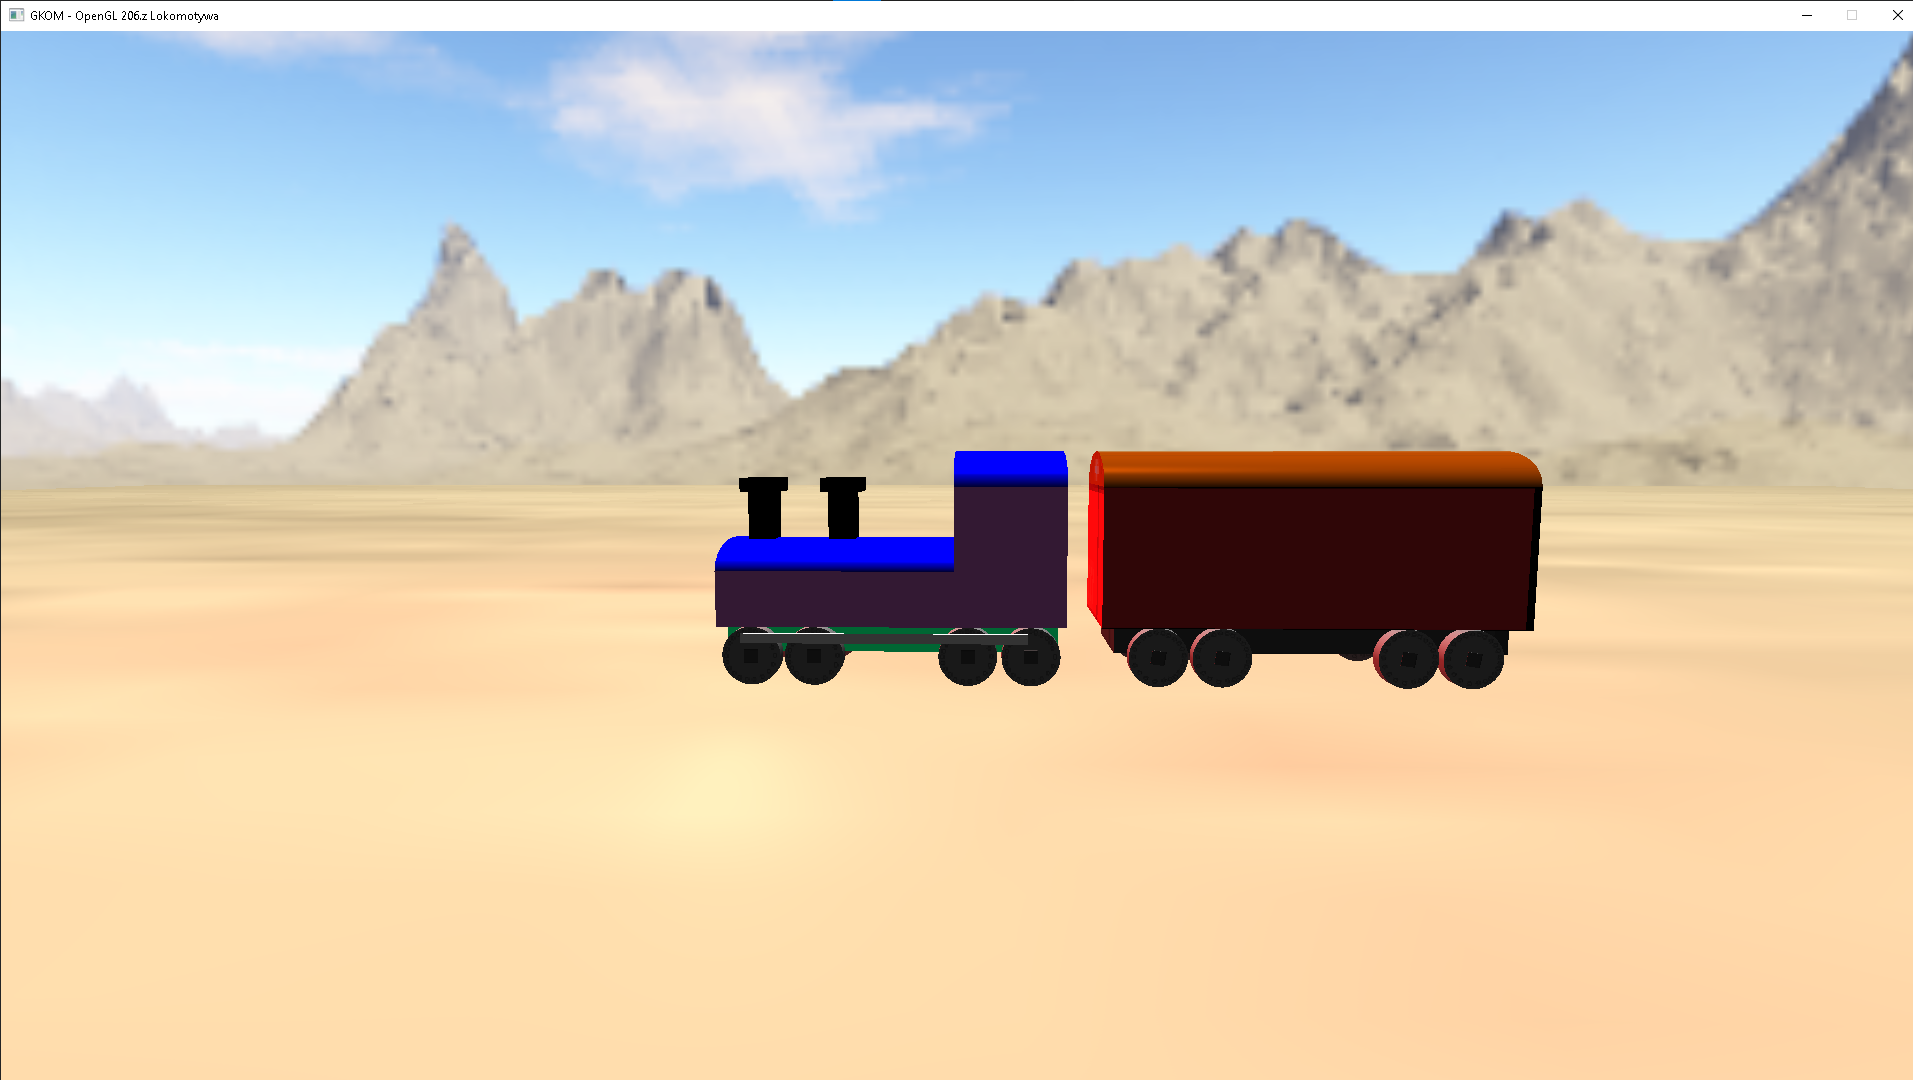
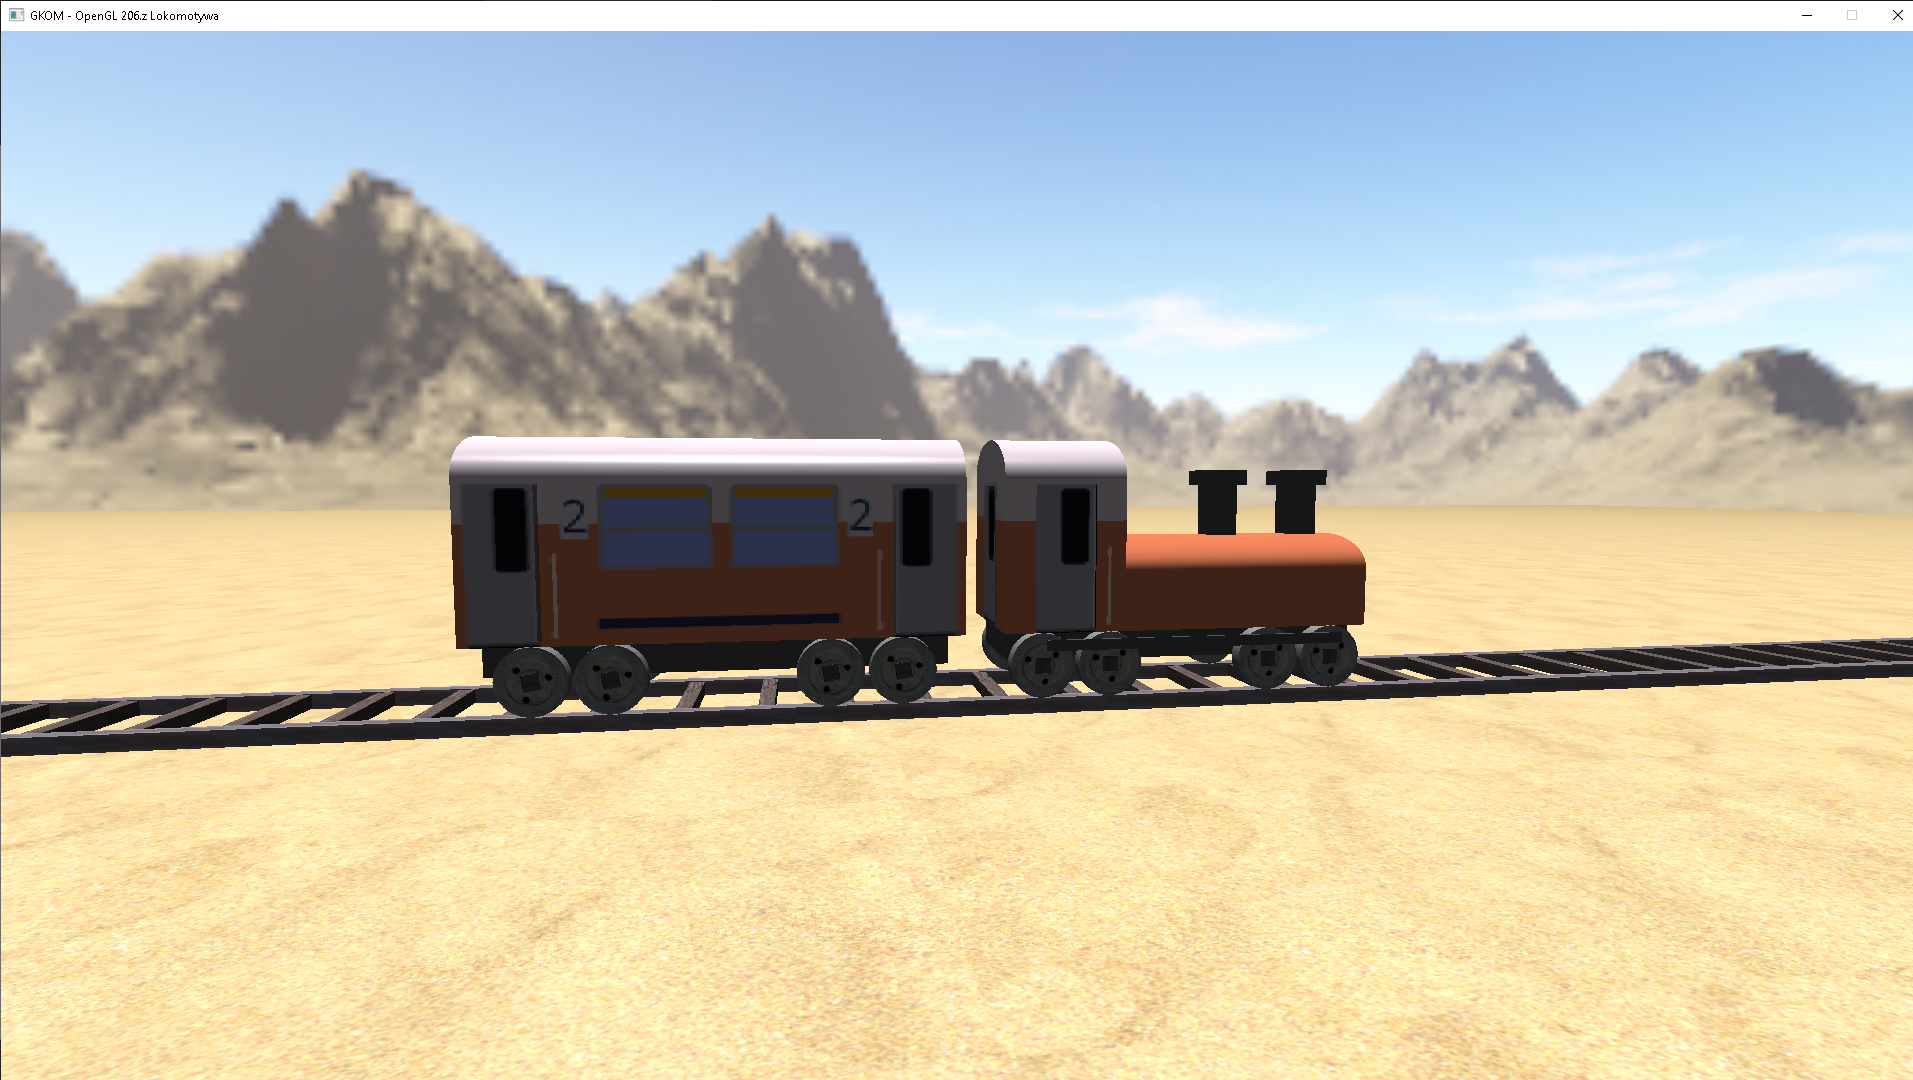
updated readme and screenshot

diff --git a/README.md b/README.md
@@ -37,23 +37,23 @@ Lista zazdań w formie oddzielnych issues [tutaj](http://gitlab.ii.pw.edu.pl/gko
     - [x] Ustalenie zakresu zadań, które mają być realizowane za pomocą tych wrapperów
     - [x] Nakładanie więzów na obiekty oraz ich grupowanie
 - [ ] Przygotowanie CI
-- [ ] Przygotowanie modelu lokomotywy
+- [x] Przygotowanie modelu lokomotywy
     - [x] Podział na figury
     - [x] Połączenie figur
-    - [ ] Nadanie koloru lub tekstur
-- [ ] Przygotowanie modelu wagonu
+    - [x] Nadanie koloru lub tekstur
+- [x] Przygotowanie modelu wagonu
     - [x] Podział na figury
     - [x] Połączenie figur
-    - [ ] Nadanie koloru lub tekstur
-- [ ] Przygotowanie modelu otoczenia (tory, góry, łąka)
+    - [x] Nadanie koloru lub tekstur
+- [x] Przygotowanie modelu otoczenia (tory, góry, łąka)
     - [x] Podział na figury
     - [x] Połączenie figur
-    - [ ] Nadanie koloru lub tekstur
-- [ ] Przygotowanie tekstur
+    - [x] Nadanie koloru lub tekstur
+- [x] Przygotowanie tekstur
 - [x] Implementacja ruchomej kamery
 - [x] Dodanie obsługi oświetlenia
-- [ ] Dodanie elementów świecących
-- [ ] Obsługa wejść użytkownika
+- [x] Dodanie elementów świecących
+- [x] Obsługa wejść użytkownika
 - [ ] Zarządzanie repozytorium
 
 ## Aktualny stan projektu
